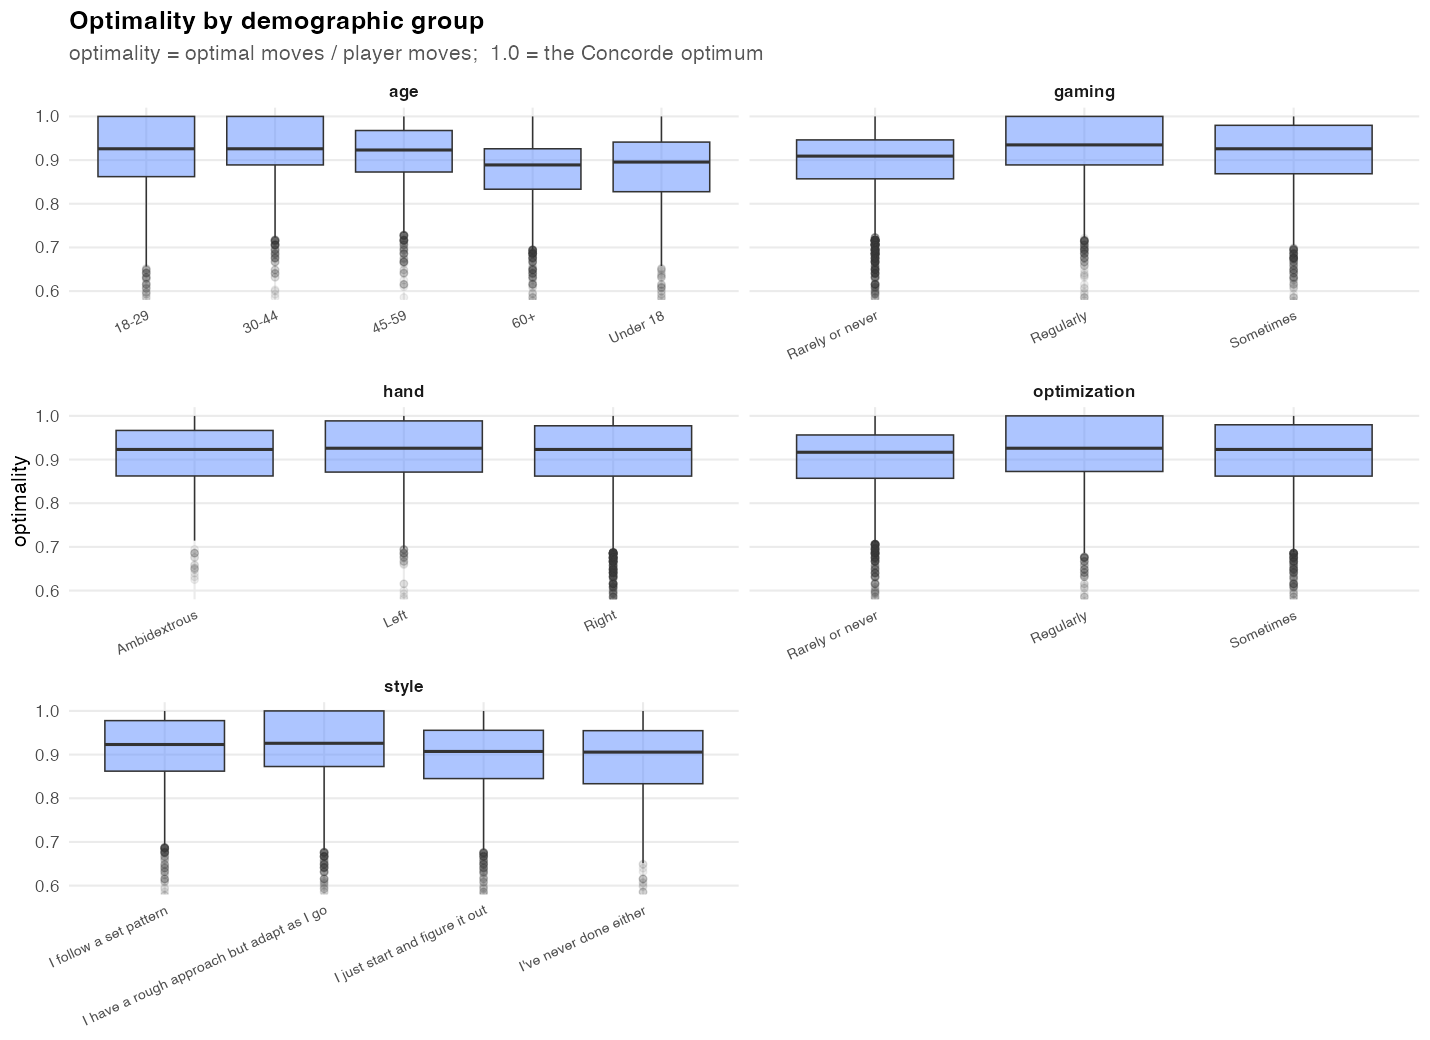
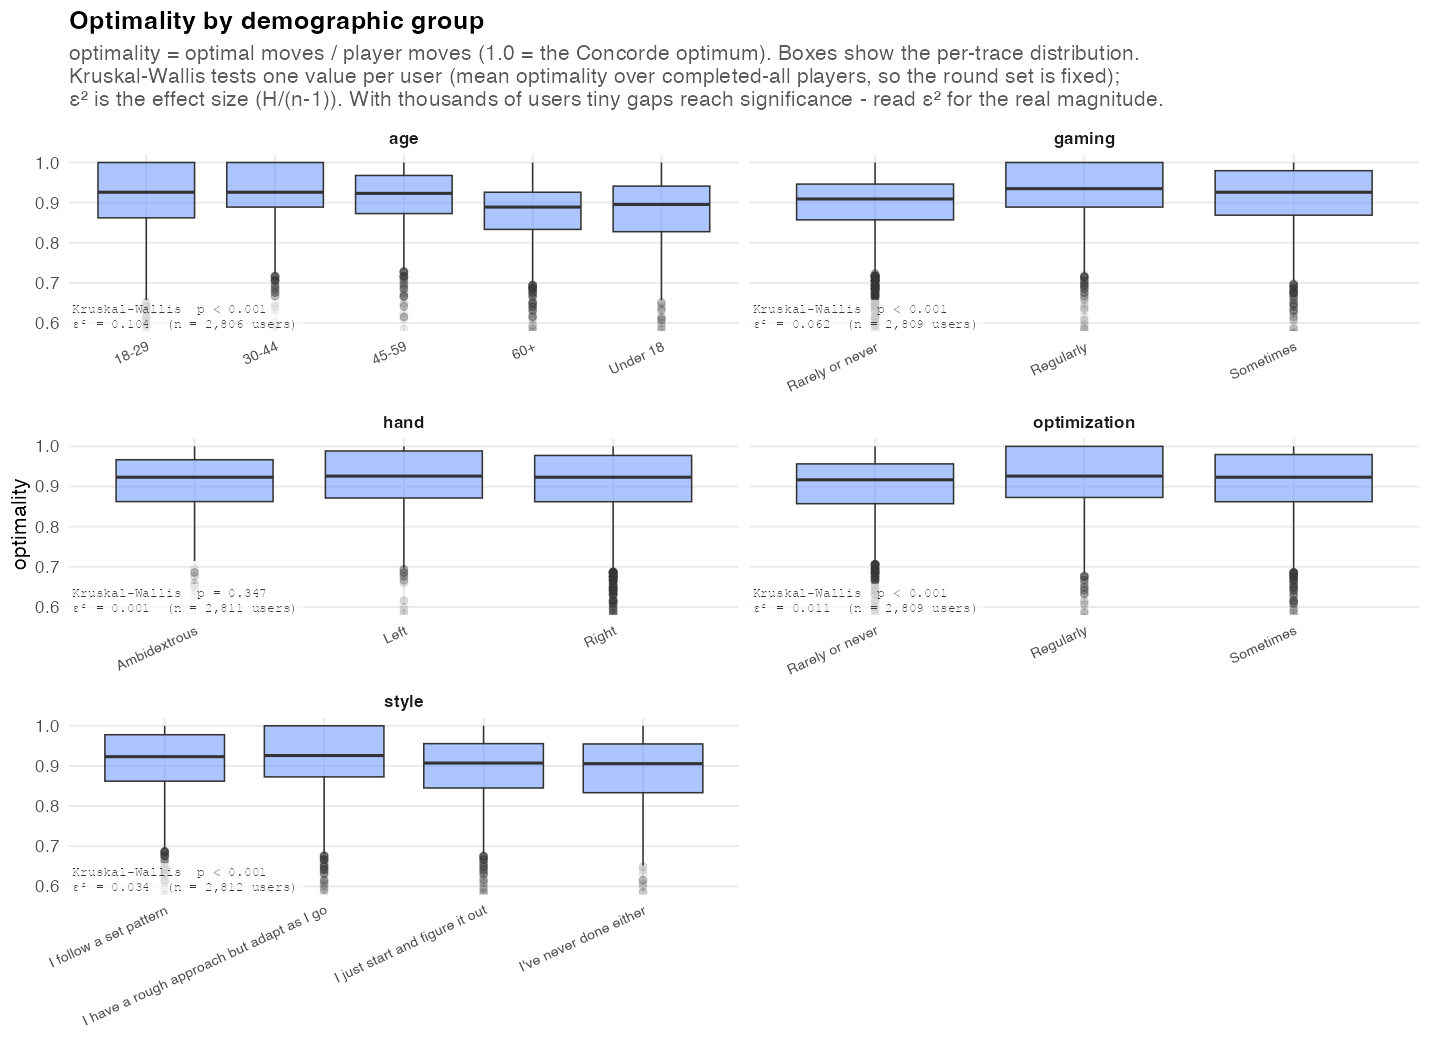
Added some extra bits of analysis

diff --git a/analysis/experiment/cohort_explorer.html b/analysis/experiment/cohort_explorer.html
@@ -626,8 +626,9 @@ const REPORT=[
   ['q3_top_vs_average.png','Top scorers vs everyone else'],
   ['q4a_optimality_by_demographic.png','Optimality by demographic group'],
   ['q4b_patterns_by_demographic.png','Path-shape mix by demographic group'],
+  ['q4c_optimality_regression.png','Optimality regression (all demographics together)'],
   ['q5_optimality_across_rounds.png','Optimality across rounds'],
-  ['q8_think_vs_exec.png','Thinking vs execution (moves & time)'],
+  ['q8_think_vs_exec.png','Thinking vs execution, by solver cohort'],
   ['q9_thinking_vs_optimality.png','Does thinking pay off?'],
   ['q10_score_hist_overall.png','Player-skill distribution (per user)'],
   ['q11_score_hist_by_round.png','Score distribution by round'],

diff --git a/analysis/experiment/ANALYSIS.md b/analysis/experiment/ANALYSIS.md
@@ -90,7 +90,22 @@ open cohort_explorer.html   # interactive
    deliberation beats speed.
 4. **Demographics:** clear age gradient (younger more efficient; 60+ lowest);
    self-described "I follow a set pattern" players are slightly more efficient;
-   regular gamers marginally better; handedness shows no effect.
+   regular gamers marginally better; handedness shows no effect. Tested per
+   demographic with a Kruskal-Wallis test on one value per user (mean optimality,
+   `completed_all` pool so the round set is fixed; non-parametric because
+   optimality is bounded/left-skewed). Age dominates (ε² ≈ 0.10, p ≈ 5e-62),
+   gaming is moderate (ε² ≈ 0.06), style (ε² ≈ 0.03) and optimization (ε² ≈ 0.01)
+   are significant but tiny, and handedness is **not** significant (p ≈ 0.35).
+   With ~2.8k users almost any gap clears p < 0.001, so the ε² effect sizes —
+   not the p-values — carry the story (`q4a`). A single OLS regression of per-user
+   mean optimality on **all five demographics at once** (`q4c`, complete-case
+   n ≈ 2,792, R² ≈ 0.17) gives the cleaner joint read: net of the others, age,
+   planning style, and gaming stay significant (drop1 F-tests all p < 1e-12), but
+   **handedness (p ≈ 0.20) and "optimization" (p ≈ 0.89) are not** — the univariate
+   optimization effect was confounded (regular gamers / younger players also report
+   optimizing more). Largest gaps vs baseline: regular gamers +0.024, "rough
+   approach / adapt" +0.018 and ages 30-44 +0.016; ages 60+ −0.028 and Under 18
+   −0.022.
 5. **Optimality declines as grids get harder, then partly recovers — it never
    improves with practice.** Against the true Concorde baseline, median
    optimality falls from round1 (1.00) → round2 (0.923) → bonus1 (0.905, the